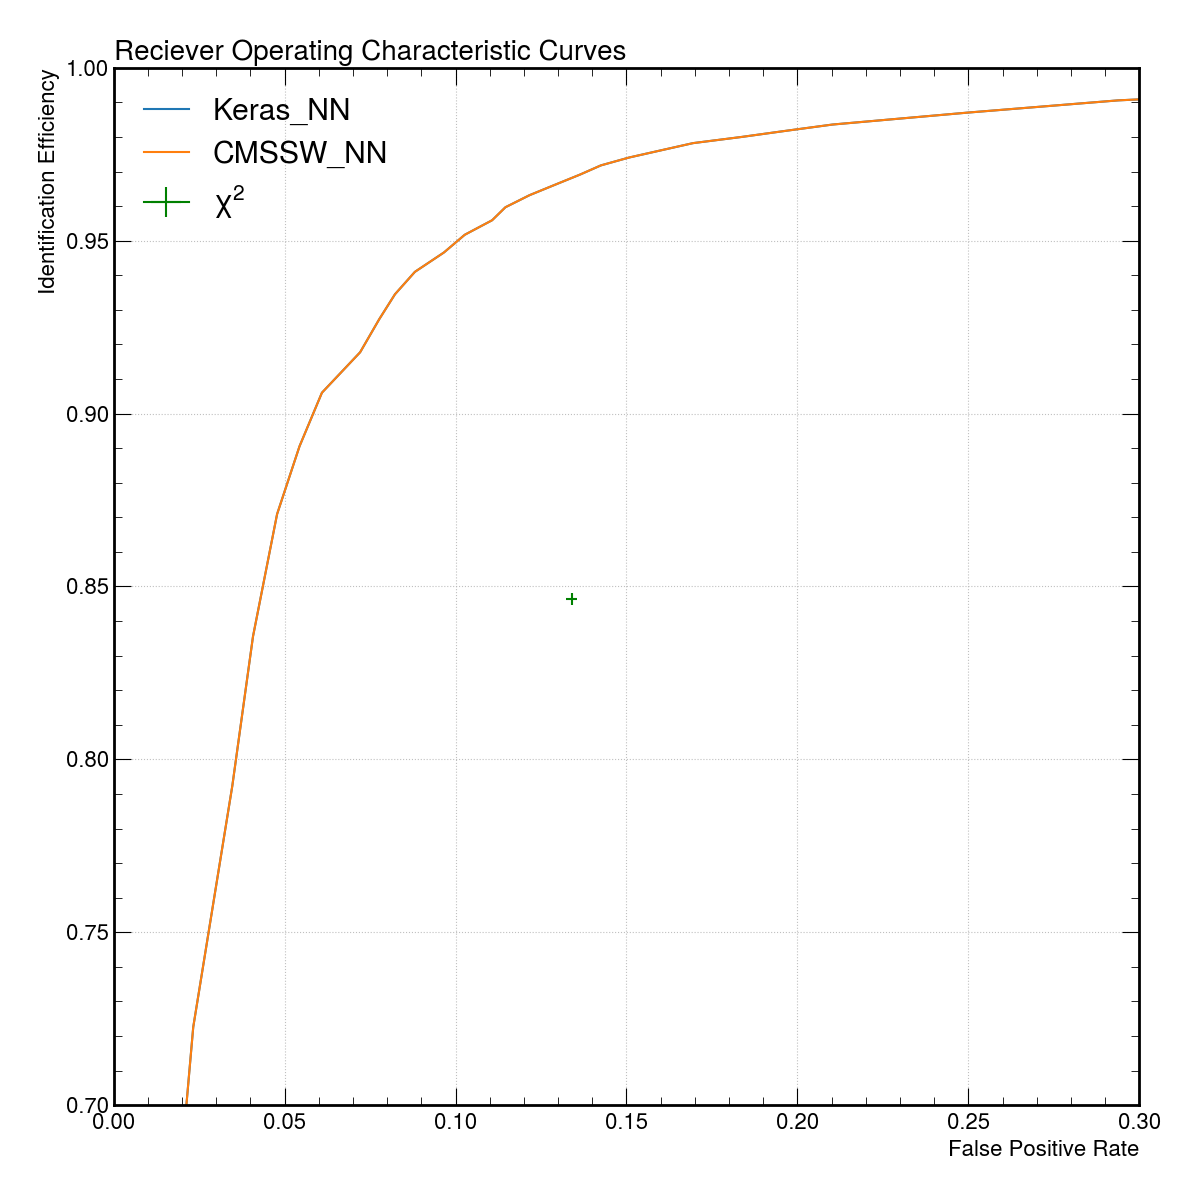
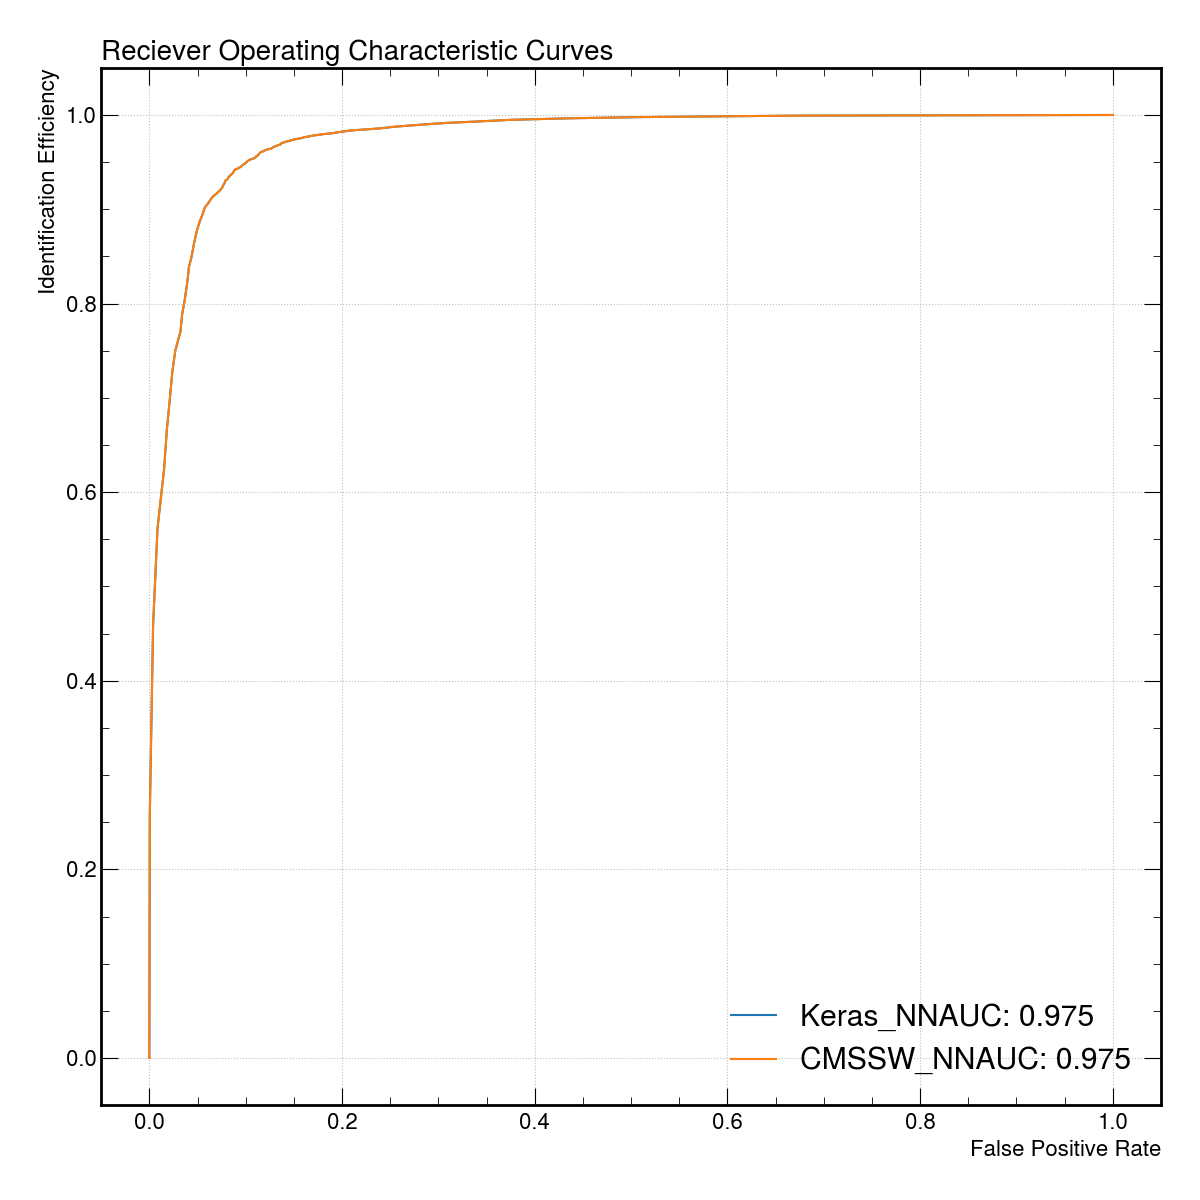
with pt

diff --git a/Eval/eval_funcs.py b/Eval/eval_funcs.py
@@ -21,7 +21,7 @@ def streamlined(trackdf,threshold,model_names):
     for i in range(len(model_names)):
         trackdf["class_"+str(i)] = trackdf["class_output_"+str(i)]
         trackdf["class_"+str(i)][trackdf["class_"+str(i)]>threshold] = 1
-        trackdf["class_"+str(i)][trackdf["class_"+str(i)]<=threshold] = 0
+        trackdf["class_"+str(i)][trackdf["class_"+str(i)]<=threshold] = 0  
 
         TN[i], FP[i], FN[i], TP[i] = confusion_matrix(trackdf["trk_fake"],trackdf["class_"+str(i)]).ravel()
 
@@ -143,21 +143,32 @@ def bins(trackdf,model_names,parameter,threshold=0.5):
         bins = 20
         bin_width = (bin_high-bin_low)/bins
         bin_range = np.linspace(bin_low+bin_width/2,bin_high-bin_width/2,bins)
-        print(bin_range)
+        bin_widths = [bin_width/2 for i in range(len(bin_range))]
+
+        
+        
 
     if parameter=="pt":
         plot_type_name = "$p_T$"
-        bin_high = 20
-        bin_low = 100
+        bin_high = 100
+        bin_low = 2
         bins = 11
         bin_width = (bin_high-bin_low)/bins
-        bin_range = np.logspace(bin_low,bin_high,bins)
-        #bin_widths = 
+        bin_full_range = np.logspace(np.log10(bin_low),np.log10(bin_high),bins)
+        bin_widths = [(bin_full_range[i+1]-bin_full_range[i])/2 for i in range(len(bin_full_range)-1)]
+        bin_range = [(bin_full_range[i]+bin_widths[i]) for i in range(len(bin_full_range)-1)]
+
 
     if parameter=="phi":
     
         plot_type_name = "$\phi$"
-        bin_range = np.linspace(-3.141,3.141,10)
+        bin_high = 3.14
+        bin_low = -3.14
+        bins = 11
+        bin_width = (bin_high-bin_low)/bins
+        bin_range = np.linspace(bin_low+bin_width/2,bin_high-bin_width/2,bins)
+        bin_widths = [bin_width/2 for i in range(len(bin_range))]
+
         
 
     plot_name = parameter
@@ -171,7 +182,7 @@ def bins(trackdf,model_names,parameter,threshold=0.5):
     fnrs = np.zeros([len(model_names),len(bin_range),2])
 
     for i in range(len(bin_range)):
-        temp_df = trackdf[(trackdf["trk_"+parameter] > bin_range[i]-bin_width/2) & (trackdf["trk_"+parameter] <= bin_range[i]+bin_width/2)]
+        temp_df = trackdf[(trackdf["trk_"+parameter] > bin_range[i]-bin_widths[i]) & (trackdf["trk_"+parameter] <= bin_range[i]+bin_widths[i])]
 
         temp_tprs,temp_fprs,temp_tnrs,temp_fnrs,totalstrue,totalsfalse = newfull_rates(temp_df,model_names,threshold)
 
@@ -196,10 +207,8 @@ def bins(trackdf,model_names,parameter,threshold=0.5):
     ax.set_title("True Positive Rate vs " +plot_type_name ,loc='left',fontsize=20)
 
     for i in range(len(model_names)-1):
-        ax.errorbar(bin_range,tprs[i,:,0],yerr=tprs[i,:,1],xerr=bin_width/2,fmt='.', label=model_names[i])
-    ax.errorbar(bin_range,tprs[2,:,0],yerr=tprs[2,:,1],xerr=bin_width/2,fmt='.', label="$\chi^2$ ")
-
-    ax.set_ylim(0.9,0.98)
+        ax.errorbar(bin_range,tprs[i,:,0],yerr=tprs[i,:,1],xerr=bin_widths,fmt='.', label=model_names[i])
+    ax.errorbar(bin_range,tprs[2,:,0],yerr=tprs[2,:,1],xerr=bin_widths,fmt='.', label="$\chi^2$ ")
 
     ax.set_xlabel(plot_type_name,ha="right",x=1,fontsize=16)
     ax.set_ylabel("TPR",ha="right",y=1,fontsize=16)
@@ -218,8 +227,8 @@ def bins(trackdf,model_names,parameter,threshold=0.5):
     ax.set_title("False Positive Rate vs " +plot_type_name ,loc='left',fontsize=20)
 
     for i in range(len(model_names)-1):
-        ax.errorbar(bin_range,fprs[i,:,0],yerr=fprs[i,:,1],xerr=bin_width/2, fmt='.',label=model_names[i])
-    ax.errorbar(bin_range,fprs[2,:,0],yerr=fprs[2,:,1],xerr=bin_width/2, fmt='.',label="$\chi^2$ ")
+        ax.errorbar(bin_range,fprs[i,:,0],yerr=fprs[i,:,1],xerr=bin_widths, fmt='.',label=model_names[i])
+    ax.errorbar(bin_range,fprs[2,:,0],yerr=fprs[2,:,1],xerr=bin_widths, fmt='.',label="$\chi^2$ ")
 
     ax.set_xlabel(plot_type_name,ha="right",x=1,fontsize=16)
     ax.set_ylabel("FPR",ha="right",y=1,fontsize=16)
@@ -239,8 +248,8 @@ def bins(trackdf,model_names,parameter,threshold=0.5):
     ax.set_title("True Negative Rate vs "+plot_type_name ,loc='left',fontsize=20)
 
     for i in range(len(model_names)-1):
-        ax.errorbar(bin_range,tnrs[i,:,0],yerr=tnrs[i,:,1],xerr=bin_width/2,fmt='.', label=model_names[i])
-    ax.errorbar(bin_range,tnrs[2,:,0],yerr=tnrs[2,:,1],xerr=bin_width/2, fmt='.',label="$\chi^2$ ")
+        ax.errorbar(bin_range,tnrs[i,:,0],yerr=tnrs[i,:,1],xerr=bin_widths,fmt='.', label=model_names[i])
+    ax.errorbar(bin_range,tnrs[2,:,0],yerr=tnrs[2,:,1],xerr=bin_widths, fmt='.',label="$\chi^2$ ")
 
     ax.set_xlabel(plot_type_name,ha="right",x=1,fontsize=16)
     ax.set_ylabel("TNR",ha="right",y=1,fontsize=16)
@@ -260,8 +269,8 @@ def bins(trackdf,model_names,parameter,threshold=0.5):
     ax.set_title("False Negative Rate vs "+plot_type_name ,loc='left',fontsize=20)
 
     for i in range(len(model_names)-1):
-        ax.errorbar(bin_range,fnrs[i,:,0],yerr=fnrs[i,:,1],xerr=bin_width/2, fmt='.',label=model_names[i])
-    ax.errorbar(bin_range,fnrs[2,:,0],yerr=fnrs[2,:,1],xerr=bin_width/2,fmt='.', label="$\chi^2$ ")
+        ax.errorbar(bin_range,fnrs[i,:,0],yerr=fnrs[i,:,1],xerr=bin_widths, fmt='.',label=model_names[i])
+    ax.errorbar(bin_range,fnrs[2,:,0],yerr=fnrs[2,:,1],xerr=bin_widths,fmt='.', label="$\chi^2$ ")
 
     ax.set_xlabel(plot_type_name,ha="right",x=1,fontsize=16)
     ax.set_ylabel("FNR",ha="right",y=1,fontsize=16)
@@ -277,7 +286,7 @@ def bins(trackdf,model_names,parameter,threshold=0.5):
 
 
 def own_roc(trackdf,model_names):
-    thresholds = np.linspace(0,1,30)
+    thresholds = np.linspace(0,1,100)
     tprs = np.zeros([len(model_names),len(thresholds),2])
     fprs = np.zeros([len(model_names),len(thresholds),2])
     tnrs = np.zeros([len(model_names),len(thresholds),2])
@@ -313,10 +322,10 @@ def own_roc(trackdf,model_names):
         #ax.plot(fprs[i,:,0]-1.96*tprs[i,:,1],tprs[i,:,0]+1.96*tprs[i,:,1],"--")
         #ax.fill_between(fprs[i,:,0], tprs[i,:,0]-1.96*tprs[i,:,1], tprs[i,:,0]+1.96*tprs[i,:,1],color="g",alpha=0.1)
     
-    ax.errorbar(fprs[2,1,0],tprs[2,1,0], xerr=1.96*fprs[2,1,1], yerr=1.96*tprs[2,1,1],color='g',label="$\chi^2$"+ "AUC: %.3f"%(1+np.trapz(fprs[2,:,0],tprs[2,:,0])))
+    #ax.errorbar(fprs[2,1,0],tprs[2,1,0], xerr=1.96*fprs[2,1,1], yerr=1.96*tprs[2,1,1],color='g',label="$\chi^2$"+ "AUC: %.3f"%(1+np.trapz(fprs[2,:,0],tprs[2,:,0])))
 
-    ax.set_xlim([0.0,0.3])
-    ax.set_ylim([0.7,1.0])
+    #ax.set_xlim([0.0,0.3])
+    #ax.set_ylim([0.7,1.0])
     #ax.plot(fprs[0,:,0],fprs[0,:,0],"--",color='r',label="Random Guess: 0.5")
     ax.set_xlabel("False Positive Rate",ha="right",x=1,fontsize=16)
     ax.set_ylabel("Identification Efficiency",ha="right",y=1,fontsize=16)

diff --git a/Eval/eval.py b/Eval/eval.py
@@ -92,9 +92,9 @@ model_names = ("Keras_NN","CMSSW_NN","Chi2 Cut")
 
 #eval_funcs.bins(trackdf,model_names,"eta")
 #eval_funcs.bins(trackdf,model_names,"pt")
-#eval_funcs.bins(trackdf,model_names,"phi")
+eval_funcs.bins(trackdf,model_names,"phi")
 
-eval_funcs.own_roc(trackdf,model_names)
+#eval_funcs.own_roc(trackdf,model_names)
 
 #eval_funcs.lepton_split(trackdf,model_names)
 
